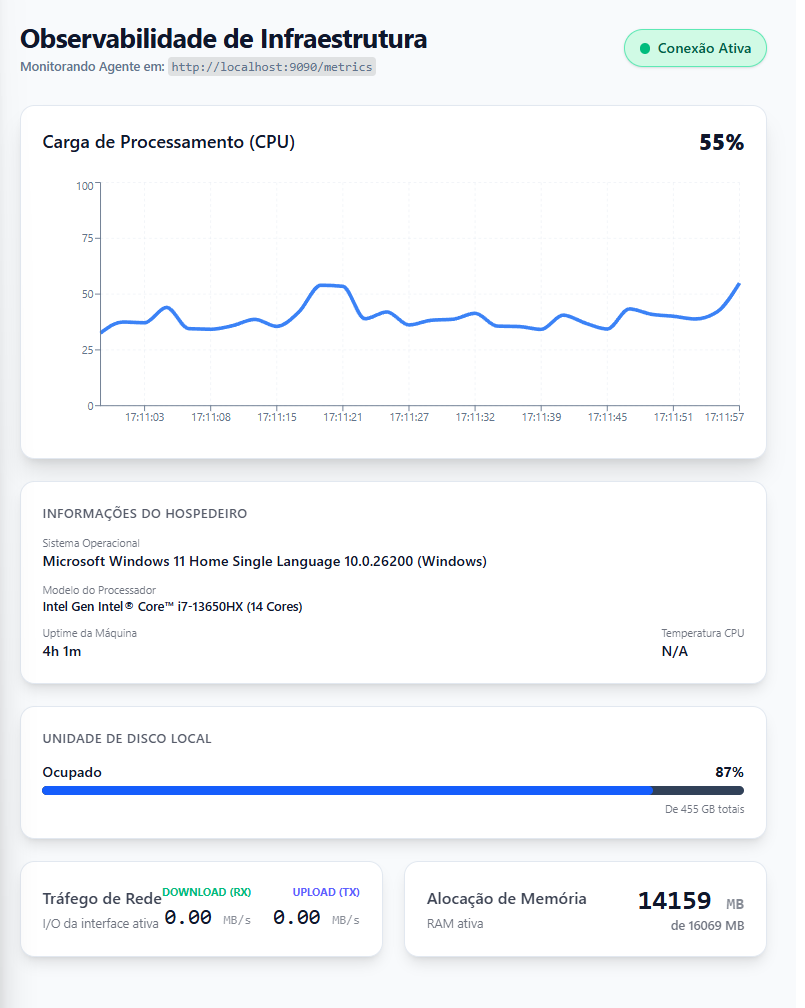
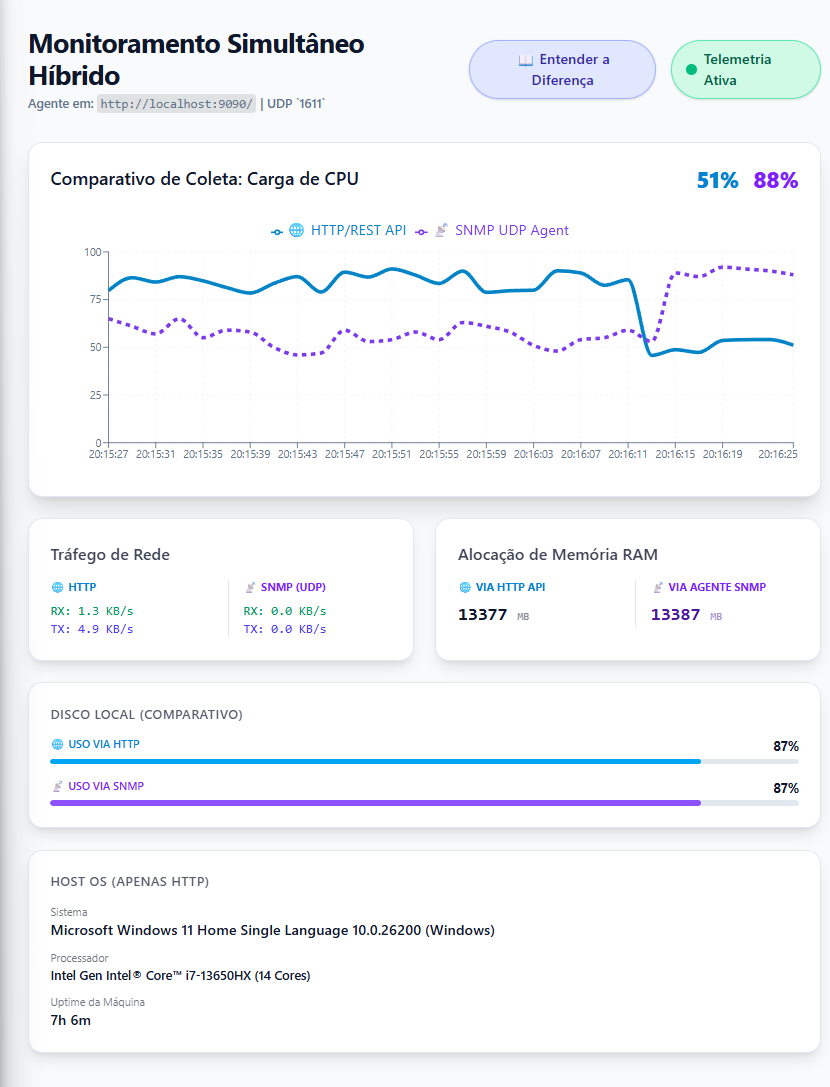
DOCS: documentacao em MD da telimetria e as metricas além de baloes no dashboard explicativos

diff --git a/apps/dashboard/src/App.tsx b/apps/dashboard/src/App.tsx
@@ -26,6 +26,23 @@ interface Point {
   snmp: Metrics | null;
 }
 
+const InfoTooltip = ({ title, text, httpText, snmpText }: { title: string, text: string, httpText?: string, snmpText?: string }) => (
+  <div className="group relative ml-2 inline-flex cursor-help align-middle">
+    <div className="flex h-5 w-5 items-center justify-center rounded-full bg-slate-200 text-xs font-bold text-slate-500 hover:bg-indigo-100 hover:text-indigo-600 transition-colors">?</div>
+    <div className="invisible absolute bottom-full left-1/2 z-50 mb-2 w-80 -translate-x-1/2 rounded-xl border border-slate-700 bg-slate-900 p-4 text-sm text-white opacity-0 shadow-2xl transition-all group-hover:visible group-hover:opacity-100 font-sans pointer-events-none">
+      <h4 className="font-bold text-indigo-300 mb-1">{title}</h4>
+      <p className="opacity-90 leading-relaxed mb-3 text-xs">{text}</p>
+      {(httpText || snmpText) && (
+        <div className="space-y-2 text-xs border-t border-slate-700 pt-3 mt-2">
+          {httpText && <div className="flex gap-2"><span className="text-sky-400 font-bold shrink-0">HTTP:</span><span className="opacity-80">{httpText}</span></div>}
+          {snmpText && <div className="flex gap-2"><span className="text-violet-400 font-bold shrink-0">SNMP:</span><span className="opacity-80">{snmpText}</span></div>}
+        </div>
+      )}
+      <div className="absolute left-1/2 top-full h-2 w-2 -translate-x-1/2 -mt-1 border-4 border-transparent border-t-slate-900" />
+    </div>
+  </div>
+);
+
 function App() {
   const [data, setData] = useState<Point[]>([]);
   const [isError, setIsError] = useState(false);
@@ -144,7 +161,15 @@ function App() {
           {/* Coluna Esquerda: Gráfico Duplo (Ocupa 2 colunas) */}
           <div className={`lg:col-span-2 p-6 rounded-2xl shadow-xl transition-colors duration-500 ${isAlert ? 'bg-red-900/50 border border-red-700' : 'bg-white border border-slate-200'}`}>
             <h2 className="text-xl font-semibold mb-6 flex items-center justify-between">
-              <span>Comparativo de Coleta: Carga de CPU</span>
+              <span className="flex items-center">
+                Comparativo de Coleta: Carga de CPU
+                <InfoTooltip
+                  title="Carga Média do Processador"
+                  text="Mede o percentual de tempo que o processador passa executando tarefas em relação ao tempo ocioso nos últimos 2 segundos de coleta."
+                  httpText="Mantém a precisão flutuante matemática via JSON (Ex: 45.3%)."
+                  snmpText="Convertido para Inteiro no servidor e exposto como Int32 na MIB SNMP, ideal para leitura padronizada de modens e roteadores."
+                />
+              </span>
               <div className="flex gap-4">
                 <span className="text-2xl font-black text-sky-600" title="HTTP/REST" >{latestHttp ? Math.round(latestHttp.cpu) : 0}%</span>
                 <span className="text-2xl font-black text-violet-600" title="SNMP/UDP">{latestSnmp ? Math.round(latestSnmp.cpu) : 0}%</span>
@@ -201,7 +226,15 @@ function App() {
         <div className="grid grid-cols-1 md:grid-cols-2 gap-6">
 
           <div className={`p-6 rounded-2xl shadow-lg border ${isAlert ? 'bg-red-900/50 border-red-700' : 'bg-white border-slate-200'}`}>
-            <h3 className="text-lg font-medium opacity-80 mb-4">Tráfego de Rede</h3>
+            <h3 className="text-lg font-medium opacity-80 mb-4 flex items-center">
+              Tráfego de Rede
+              <InfoTooltip
+                title="Soma de Banda Passante I/O"
+                text="Uma totalização viva e contínua do uso de Bytes pelas suas placas de rede de internet, tanto via LAN (Cabo) quanto WLAN (Wi-fi)."
+                httpText="Nós recebemos os montantes em Bytes e renderizamos ativamente a conversão em casas decimais de megabytes por segundo."
+                snmpText="Tivemos que arredondar nativamente em KiloBytes Sec antes de trafegar na Árvore OID (pois os limites estruturais do SNMP Integer quebram fluxos decimais)."
+              />
+            </h3>
             <div className="grid grid-cols-2 gap-4">
               <div>
                 <h4 className="text-xs uppercase font-bold text-sky-600 mb-2">🌐 HTTP</h4>
@@ -217,7 +250,15 @@ function App() {
           </div>
 
           <div className={`p-6 rounded-2xl shadow-lg border ${isAlert ? 'bg-red-900/50 border-red-700' : 'bg-white border-slate-200'}`}>
-            <h3 className="text-lg font-medium opacity-80 mb-4">Alocação de Memória RAM</h3>
+            <h3 className="text-lg font-medium opacity-80 mb-4 flex items-center">
+              Alocação de Memória RAM
+              <InfoTooltip
+                title="Consumo de Memória de Sistema"
+                text="Reflete puramente a memória alocada ativamente por processos do SO, não listando a memória em cache adormecida, o que exibe um uso tangível."
+                httpText="Um payload dinâmico. O HTTP fornece a flexibilidade do client de frontend calcular suas próprias aproximações."
+                snmpText="Forçamos o engessamento na coleta (backend), onde o Agente divide o número para MB inteiro puro e pendura na MIB, economizando processamento front-end dos aparelhos receptores IoT."
+              />
+            </h3>
             <div className="grid grid-cols-2 gap-4">
               <div>
                 <h4 className="text-xs uppercase font-bold text-sky-600 mb-2">🌐 Via HTTP API</h4>
@@ -235,55 +276,71 @@ function App() {
           </div>
 
         </div>
-{/* Coluna Direita: Cards de Status Físico e OS */}
-          <div className="space-y-6">
+        {/* Coluna Direita: Cards de Status Físico e OS */}
+        <div className="space-y-6">
 
-            <div className={`p-6 rounded-2xl shadow-lg border ${isAlert ? 'bg-red-900/30 border-red-800' : 'bg-white border-slate-200'}`}>
-              <h3 className="text-sm font-semibold uppercase tracking-wider opacity-70 mb-4">Disco Local (Comparativo)</h3>
-              <div className="space-y-4">
+          <div className={`p-6 rounded-2xl shadow-lg border ${isAlert ? 'bg-red-900/30 border-red-800' : 'bg-white border-slate-200'}`}>
+            <h3 className="text-sm font-semibold uppercase tracking-wider opacity-70 mb-4 flex items-center">
+              Disco Local (Comparativo)
+              <InfoTooltip
+                title="Uso da Partição de Disco Principal"
+                text="Mede o volume de blocos oculados no HD principal (Drive primário do SO) comparado com o tamanho total e reflete o armazenamento disponível."
+                httpText="A API exporta os dados limpos sem arredondamento. O JSON entrega a relação precisa de Gigabytes."
+                snmpText="Para o payload UDP do SNMP ser mínimo, o Agente tira a média em Porcentagem do Disco, retornando um Inteiro que consome 1 byte."
+              />
+            </h3>
+            <div className="space-y-4">
 
-                {/* HTTP Disk */}
-                <div>
-                  <div className="flex justify-between mb-1">
-                    <span className="font-medium text-xs text-sky-600 font-bold uppercase">🌐 Uso via HTTP</span>
-                    <span className="font-bold text-sm">{latestHttp ? Math.round(latestHttp.diskUsedPercentage) : 0}%</span>
-                  </div>
-                  <div className="w-full bg-slate-200 rounded-full h-1.5 overflow-hidden">
-                    <div className="bg-sky-500 h-1.5 rounded-full" style={{ width: `${latestHttp ? latestHttp.diskUsedPercentage : 0}%` }}></div>
-                  </div>
+              {/* HTTP Disk */}
+              <div>
+                <div className="flex justify-between mb-1">
+                  <span className="font-medium text-xs text-sky-600 font-bold uppercase">🌐 Uso via HTTP</span>
+                  <span className="font-bold text-sm">{latestHttp ? Math.round(latestHttp.diskUsedPercentage) : 0}%</span>
                 </div>
-
-                {/* SNMP Disk */}
-                <div>
-                  <div className="flex justify-between mb-1">
-                    <span className="font-medium text-xs text-violet-600 font-bold uppercase">📡 Uso via SNMP</span>
-                    <span className="font-bold text-sm">{latestSnmp ? Math.round(latestSnmp.diskUsedPercentage) : 0}%</span>
-                  </div>
-                  <div className="w-full bg-slate-200 rounded-full h-1.5 overflow-hidden">
-                    <div className="bg-violet-500 h-1.5 rounded-full" style={{ width: `${latestSnmp ? latestSnmp.diskUsedPercentage : 0}%` }}></div>
-                  </div>
+                <div className="w-full bg-slate-200 rounded-full h-1.5 overflow-hidden">
+                  <div className="bg-sky-500 h-1.5 rounded-full" style={{ width: `${latestHttp ? latestHttp.diskUsedPercentage : 0}%` }}></div>
                 </div>
-
               </div>
+
+              {/* SNMP Disk */}
+              <div>
+                <div className="flex justify-between mb-1">
+                  <span className="font-medium text-xs text-violet-600 font-bold uppercase">📡 Uso via SNMP</span>
+                  <span className="font-bold text-sm">{latestSnmp ? Math.round(latestSnmp.diskUsedPercentage) : 0}%</span>
+                </div>
+                <div className="w-full bg-slate-200 rounded-full h-1.5 overflow-hidden">
+                  <div className="bg-violet-500 h-1.5 rounded-full" style={{ width: `${latestSnmp ? latestSnmp.diskUsedPercentage : 0}%` }}></div>
+                </div>
+              </div>
+
             </div>
-            <div className={`p-6 rounded-2xl shadow-lg border ${isAlert ? 'bg-red-900/30 border-red-800' : 'bg-white border-slate-200'}`}>
-              <h3 className="text-sm font-semibold uppercase tracking-wider opacity-70 mb-4">Host OS (Apenas HTTP)</h3>
-              <div className="space-y-3">
-                <div>
-                  <p className="text-xs opacity-60">Sistema</p>
-                  <p className="font-medium truncate">{latestHttp?.os || '---'}</p>
-                </div>
-                <div>
-                  <p className="text-xs opacity-60">Processador</p>
-                  <p className="font-medium text-sm">{latestHttp?.cpuName || '---'} ({latestHttp?.cpuCores || '-'} Cores)</p>
-                </div>
-                <div>
-                  <p className="text-xs opacity-60">Uptime da Máquina</p>
-                  <p className="font-medium">{latestHttp ? formatUptime(latestHttp.uptime) : '---'}</p>
-                </div>
+          </div>
+          <div className={`p-6 rounded-2xl shadow-lg border ${isAlert ? 'bg-red-900/30 border-red-800' : 'bg-white border-slate-200'}`}>
+            <h3 className="text-sm font-semibold uppercase tracking-wider opacity-70 mb-4 flex items-center">
+              Host OS (Apenas HTTP)
+              <InfoTooltip
+                title="Identidade do Hospedeiro e Uptime"
+                text="A telemetria profunda vai além do uso de hardware, lendo metadados de sistema e chip."
+                httpText="Via TCP/HTTP não há problemas em trafegar Strings pesadas. Lemos toda a Distribuição, arquitetura ARM/x64 e modelo nominativo do Fabricante Inte/AMD na resposta."
+                snmpText="SNMP comumente evita trafegar Strings para ser performático, por isso nós não integramos OIDs para o nome do CPU. Mantivemos apenas a versão do Sistema (OctetString MIB), que é exibida mas não exposta no painel unificado por quebra de design UI."
+              />
+            </h3>
+            <div className="space-y-3">
+              <div>
+                <p className="text-xs opacity-60">Sistema</p>
+                <p className="font-medium truncate">{latestHttp?.os || '---'}</p>
+              </div>
+              <div>
+                <p className="text-xs opacity-60">Processador</p>
+                <p className="font-medium text-sm">{latestHttp?.cpuName || '---'} ({latestHttp?.cpuCores || '-'} Cores)</p>
+              </div>
+              <div>
+                <p className="text-xs opacity-60">Uptime da Máquina</p>
+                <p className="font-medium">{latestHttp ? formatUptime(latestHttp.uptime) : '---'}</p>
               </div>
             </div>
           </div>
+        </div>
       </div>
     </div>
   );

diff --git a/docs/telemetry.md b/docs/telemetry.md
@@ -79,7 +79,37 @@ const metrics = {
 
 ---
 
-## 5. O Monitoramento na Prática (O Dashboard Web)
+## 5. SNMP vs HTTP: Monitoramento Híbrido Simultâneo
+
+Para fins empíricos e acadêmicos, o projeto foi fortificado para **monitorar a máquina simultaneamente usando os dois protocolos**. Isso permite ao engenheiro de redes visualizar o comportamento e disparidade entre eles em tempo real, colhendo o melhor de dois mundos no painel principal:
+
+*   **🌐 HTTP (Transporte TCP):** O agente processa a carga inteira e devolve um JSON mastigado na rota `/metrics`. Pelo TCP ser um protocolo **Orientado a Conexão**, ele garante que cada requisição entre o Dashboard e o Agente seja entregue com integridade, verificando pacotes perdidos. O lado negativo é um maior *Overhead* na rede (cabos) por causa do "3-Way Handshake".
+*   **📡 SNMP (Transporte UDP):** O agente expõe uma árvore crua (*MIB*) via protocolo SNMP raiz na porta 1611. Sendo o transporte **UDP (Não Orientado a Conexão)**, ele apenas "atira" os dados (Fire-and-forget). Sem handshake, o gasto na rede despenca (até 10x menor tamanho de payload), por isso é o **Padrão Ouro e Indústria** em roteadores com processadores minúsculos. O tradeoff é que, em gargalos de rede severos, o dado será perdido sem retransmissão.
+
+No nosso Frontend, o gráfico desenha estas duas linhas temporalmente lidas destas APIs em paralelo, provando de forma cabal a extração simultânea via MIB OID (SNMP) e API REST moderna.
+
+### O Efeito Observador (Observer Effect) e a Coleta em Cache
+Durante o desenvolvimento do monitoramento simultâneo, notamos que o gráfico da CPU disparava diferentes valores loucos para o HTTP (ex: 40%) e para o SNMP (ex: 90%) no mesmo segundo. **Por que isso acontece se os dados vêm da mesma máquina?**
+
+Isso é um clássico *"Efeito do Observador"* em sistemas operacionais. A função que lê a carga da CPU (`si.currentLoad()`) não lê um estado estático; ela calcula **a diferença de carga desde a última vez que foi chamada**. 
+Quando a rota HTTP chamava a função 100ms depois da rotina SNMP chamá-la no background, a API HTTP acabava medindo o estresse da CPU de apenas uma fração de segundo (lixo residual), enquanto o SNMP media outros 1.9 segundos de ociosidade, causando gráficos corrompidos que pareciam Dentes de Serra.
+
+**A Solução Arquitetural:**
+Para consertar a divergência, refatoramos o Agente `@my-infra/agent` para utilizar um **Unified Metric Cache** (Cache Unificado). Agora, a coleta nos sensores do Kernel de Sistema Operacional acontece em uma única e exclusiva _Thread de Background_ (a cada 2 segundos) que salva os dados num Objeto em memória.
+Quando o SNMP-UDP ou o REST-HTTP pedem pelos dados, eles não rodam os sensores novamente, apenas **lêem** passivamente a última "foto tirada" em cache. Isso garante que as duas linhas do gráfico convirjam e andem juntas, pois relatam estatísticas perfeitamente sincrônicas!
+
+### Umas Coisas Que Devem Ser Notadas: Tipagem Dinâmica vs MIB OIDs Estáticas
+Outra dúvida muito pertinente e diferença cabal sobre implementar ambos protocolos reside na flexibilidade dos dados medidos. Notou-se na implementação do *Frontend* diversas vezes que as métricas HTTP vinham com Float (Casas decimais), e os gráficos via SNMP estavam sempre arredondados (Inteiros). 
+
+Isso ocorre pelo contrato rigoroso das engrenagens do **Simple Network Management Protocol**. Um Agente SNMP sério é programado em roteadores IoT com pouca RAM. A Árvore de Dados Gerencial (*Management Information Base - MIB*) obriga o agente a pré-declarar o tipo de dado de cada "Object Identifier" (OID). 
+
+Na nossa Library `/agent`:
+1. **Memória, Rede, RAM e Disk (%)**: O REST API envia esses dados como uma String/JSON imensa com bytes quebrados e exatos, delegando ao Dashboard a conta de dividir por 1024 para renderizar na tela. Quando a mesma medição é chamada pela porta **UDP 1611 SNMP**, nosso agente é obrigado a converter e engessar a medição arredondando para `Integer32`. Assim, nós alocamos literalmente apenas "1 Byte" no cabeçalho UDP, economizando tráfego global da infraestrutura.
+2. **Dados Textuais (SO, Processador Name e Modelos)**: Enviar texto no JSON REST HTTP é comum. No SNMP, trafegar uma corda extensa como _"Intel Gen Intel Core i7-13650HX"_ estoura a banda do protocolo. Por isso, a telemetria HTTP no Dashboard é capaz de mostrar os textos do Hardware; enquanto no protocolo SNMP optamos por não provisionar OIDs para metadados ricos (apenas transportando um `OctetString` simples com a Plataforma OS e cortando o resto).
+
+---
+
+## 6. O Monitoramento na Prática (O Dashboard Web)
 
 O Dashboard `apps/dashboard` (O Monitor) consome e exibe essas métricas ativamente.
 
